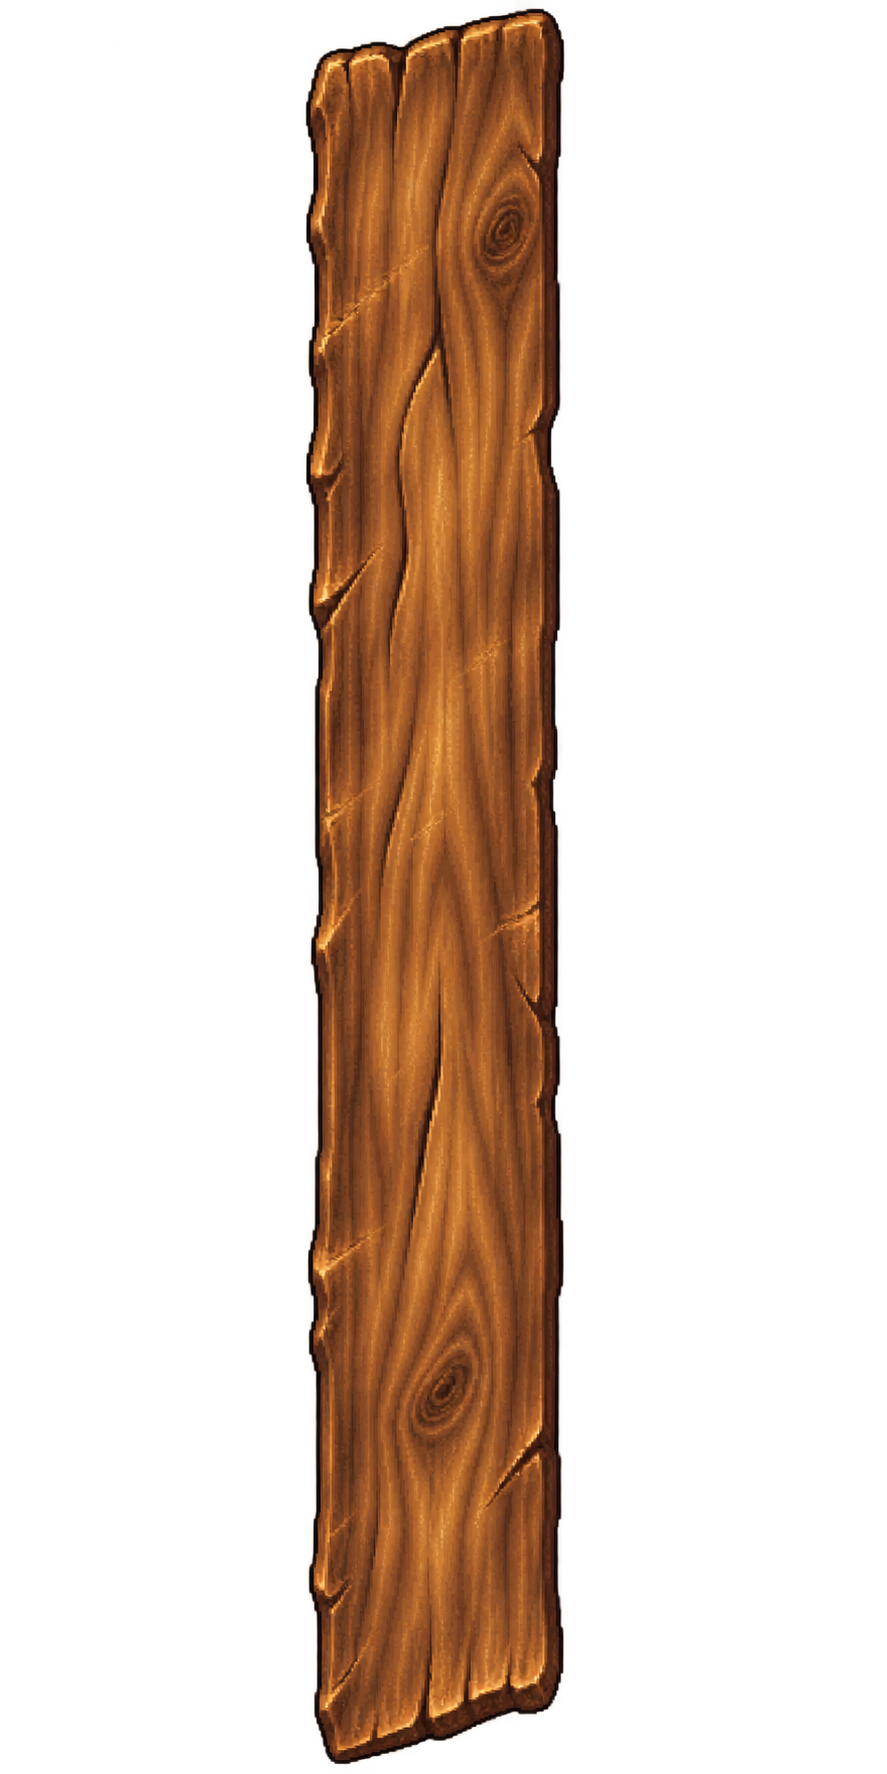
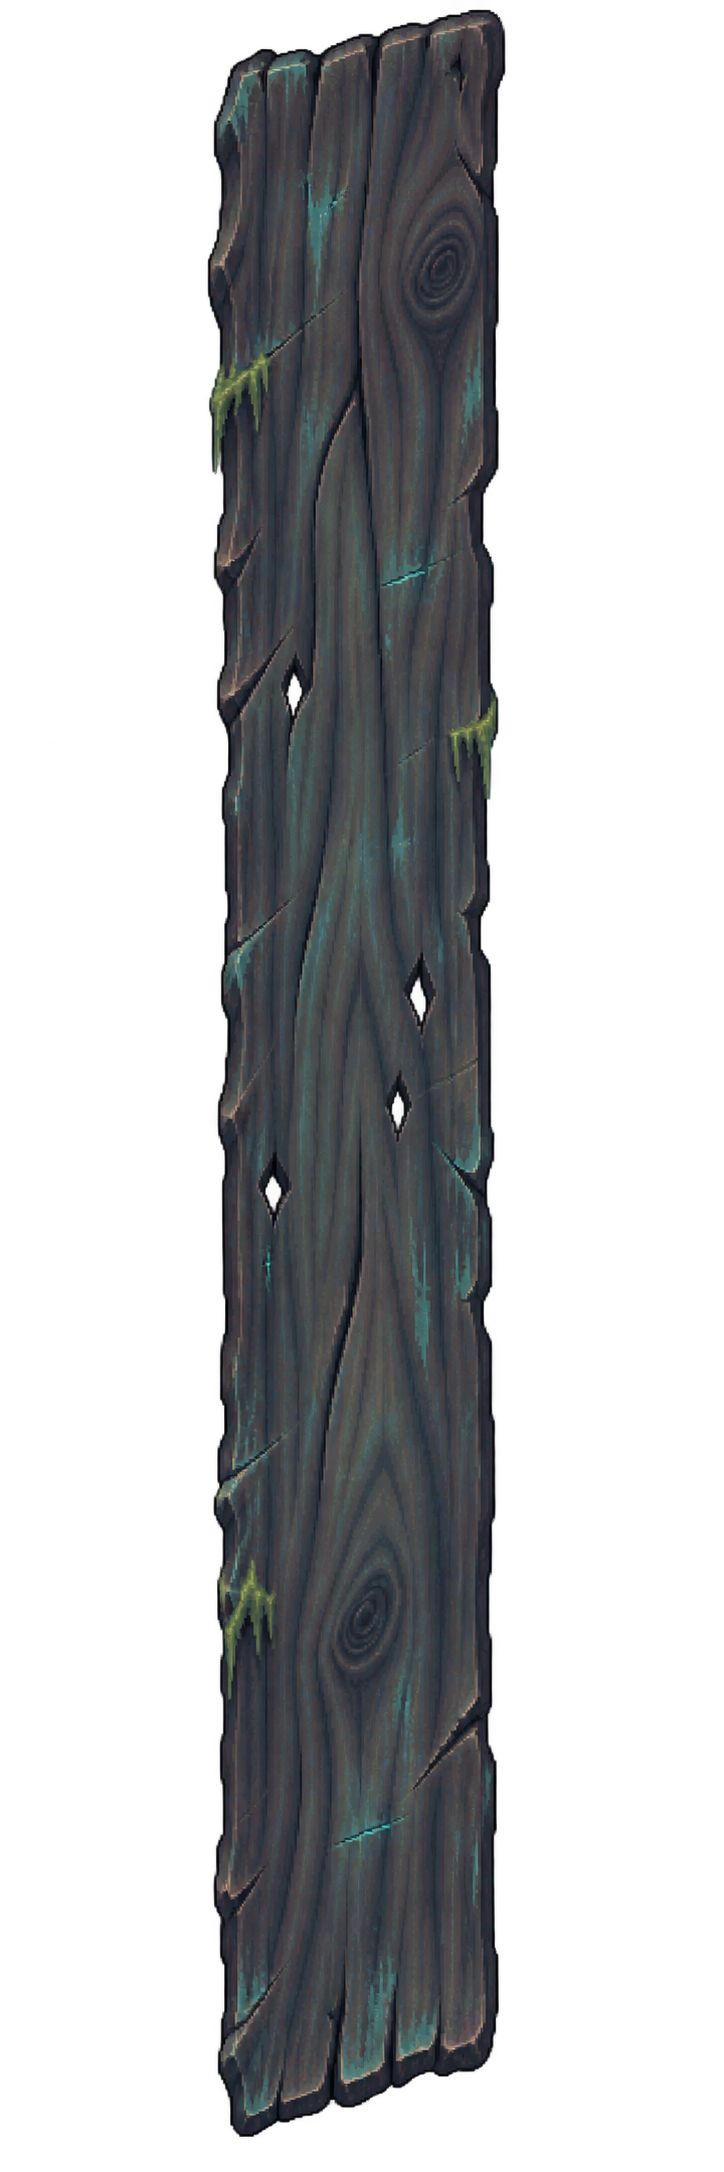
Intégrer les passerelles fantomatiques aux ponts et à l’eau

diff --git a/tests/boarding-experiment.spec.ts b/tests/boarding-experiment.spec.ts
@@ -163,7 +163,20 @@ test("rendu : sprites carrés transparents sans étirement et matériaux des deu
       [48, 144, 240, 336, 432, 528].every((y) => alpha(48, y) > 200) &&
       alpha(48, 0) === 0 &&
       alpha(48, 575) === 0;
+    let smallHoles = 0,
+      red = 0,
+      blue = 0;
+    for (let y = 96; y < 480; y++)
+      for (let x = 32; x < 64; x++) {
+        const k = (y * 96 + x) * 4;
+        if (bridgePixels[k + 3] < 20) smallHoles++;
+        else {
+          red += bridgePixels[k];
+          blue += bridgePixels[k + 2];
+        }
+      }
     return {
+      hauntedPlank: blue > red && smallHoles > 4,
       crossing,
       square: sizes.every(([w, h]) => w === 96 && h === 96),
       edgesClear,
@@ -172,6 +185,7 @@ test("rendu : sprites carrés transparents sans étirement et matériaux des deu
     };
   });
   expect(result).toEqual({
+    hauntedPlank: true,
     crossing: true,
     square: true,
     edgesClear: true,

diff --git a/src/rendering/boarding-experiment.ts b/src/rendering/boarding-experiment.ts
@@ -341,7 +341,21 @@ export function renderBoardingExperiment(
       }
   }
   const crossing = boardingPlank(art);
-  for (const x of BOARDING_CROSSINGS) c.drawImage(crossing, x * P, 12 * P);
+  for (const x of BOARDING_CROSSINGS) {
+    // Cast a short contact shadow only onto the decks supporting the timber.
+    c.save();
+    c.beginPath();
+    c.rect(x * P, 12 * P, P, P);
+    c.rect(x * P, 17 * P, P, P);
+    c.clip();
+    c.shadowColor = "#07121799";
+    c.shadowBlur = 4;
+    c.shadowOffsetX = 2;
+    c.shadowOffsetY = 3;
+    c.drawImage(crossing, x * P, 12 * P);
+    c.restore();
+    c.drawImage(crossing, x * P, 12 * P);
+  }
   for (const o of map.objects) {
     const ghost = o.y >= 17;
     if (o.type === "mast") {

diff --git a/docs/BOARDING-EXPERIMENT.md b/docs/BOARDING-EXPERIMENT.md
@@ -6,7 +6,7 @@ Le choix **03 · Abordage naval** conserve le plan et le rendu validés. La vari
 
 ## Passages et collisions
 
-Sept passerelles d’une case de large traversent le bras d’eau de quatre cases. Elles se trouvent aux colonnes zéro **2, 4, 8, 13, 19, 25 et 30**, avec des intervalles non uniformes. Elles se prolongent sur les deux cellules de bord pour raccorder les ponts sans bastingage bloquant. Chaque traversée est dessinée comme une seule longue planche sans clous (`plank.png`), sur fond transparent, dans une emprise de 1 × 6 cases. Les marges laissent voir l’eau et les ponts sous les extrémités, sans modifier les cases praticables.
+Sept passerelles d’une case de large traversent le bras d’eau de quatre cases. Elles se trouvent aux colonnes zéro **2, 4, 8, 13, 19, 25 et 30**, avec des intervalles non uniformes. Elles se prolongent sur les deux cellules de bord pour raccorder les ponts sans bastingage bloquant. Chaque traversée est dessinée comme une seule longue planche fantomatique sans clous (`plank.png`), sur fond transparent, dans une emprise de 1 × 6 cases. Les marges laissent voir l’eau et les ponts sous les extrémités, sans modifier les cases praticables. Le bois gris bleuté est assorti au navire fantôme, avec de petits trous transparents qui restent traversables et des ombres de contact limitées aux appuis sur les ponts.
 
 Les bords, les mâts, les caisses, les tonneaux et les braseros sont infranchissables. L’eau l’est également. Chaque case praticable appartient au même réseau de déplacement ; chacune des sept traversées est vérifiée séparément. Chaque navire porte trois mâts centraux de 3 × 3 cases, bloqués sur toute leur emprise. Trappes métalliques et groupes de caisses et tonneaux habillent les planchers.
 
